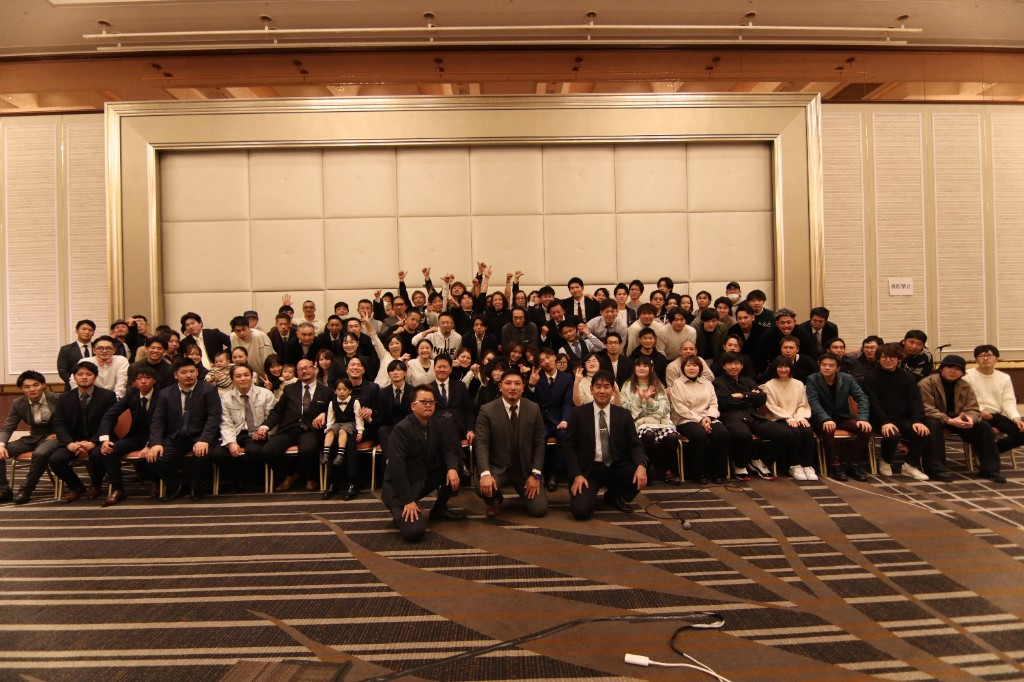
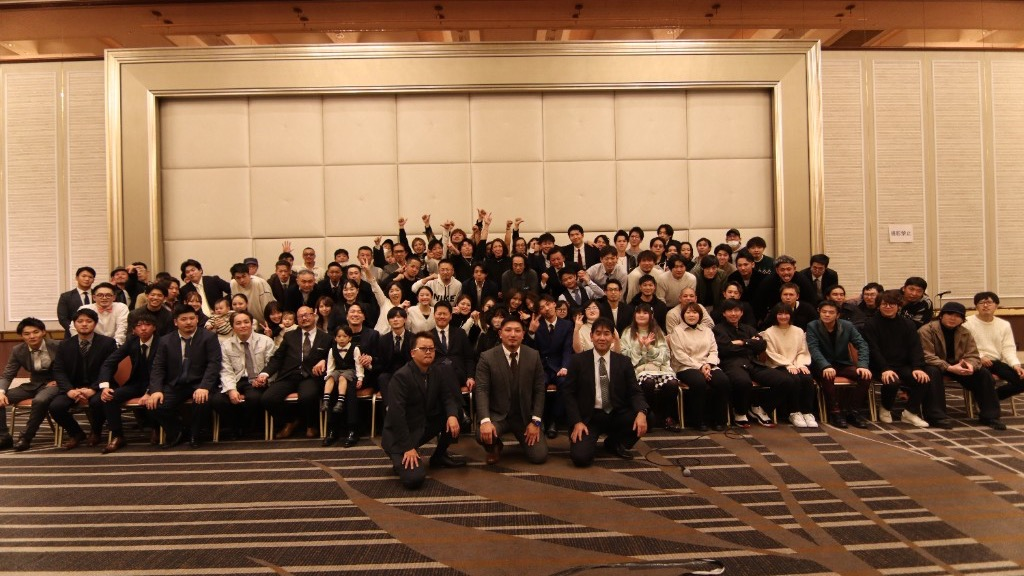
Fix hero slideshow timing and tenth slide image sizing.
Crop slide 10 to 16:9 and start the crossfade only after the opening intro finishes.

diff --git a/components/recruit/hero-slideshow.tsx b/components/recruit/hero-slideshow.tsx
@@ -6,17 +6,21 @@ import { motion, useReducedMotion } from "framer-motion";
 
 type HeroSlideshowProps = {
   images: readonly string[];
+  playing?: boolean;
 };
 
 const SLIDE_DURATION_MS = 3000;
 const FADE_DURATION_S = 1;
 
-export function HeroSlideshow({ images }: HeroSlideshowProps) {
+export function HeroSlideshow({
+  images,
+  playing = true,
+}: HeroSlideshowProps) {
   const prefersReducedMotion = useReducedMotion();
   const [activeIndex, setActiveIndex] = useState(0);
 
   useEffect(() => {
-    if (prefersReducedMotion || images.length <= 1) {
+    if (!playing || prefersReducedMotion || images.length <= 1) {
       return;
     }
 
@@ -25,7 +29,7 @@ export function HeroSlideshow({ images }: HeroSlideshowProps) {
     }, SLIDE_DURATION_MS);
 
     return () => window.clearInterval(timer);
-  }, [images.length, prefersReducedMotion]);
+  }, [images.length, playing, prefersReducedMotion]);
 
   return (
     <div className="absolute inset-0 bg-black">

diff --git a/components/recruit/hero-section.tsx b/components/recruit/hero-section.tsx
@@ -82,7 +82,11 @@ export function HeroSection({ introComplete = true }: HeroSectionProps) {
             <source src={recruitSite.hero.videoSrc} type="video/mp4" />
           </video>
         ) : (
-          <HeroSlideshow images={recruitSite.hero.slideshowImages} />
+          <HeroSlideshow
+            key={introComplete ? "playing" : "waiting"}
+            images={recruitSite.hero.slideshowImages}
+            playing={introComplete}
+          />
         )}
       </div>
       <div className="absolute inset-0 bg-[radial-gradient(circle_at_top_right,rgba(239,68,68,0.22),transparent_28%),linear-gradient(180deg,rgba(0,0,0,0.48),rgba(0,0,0,0.72)_38%,rgba(0,0,0,0.88)_100%)]" />
